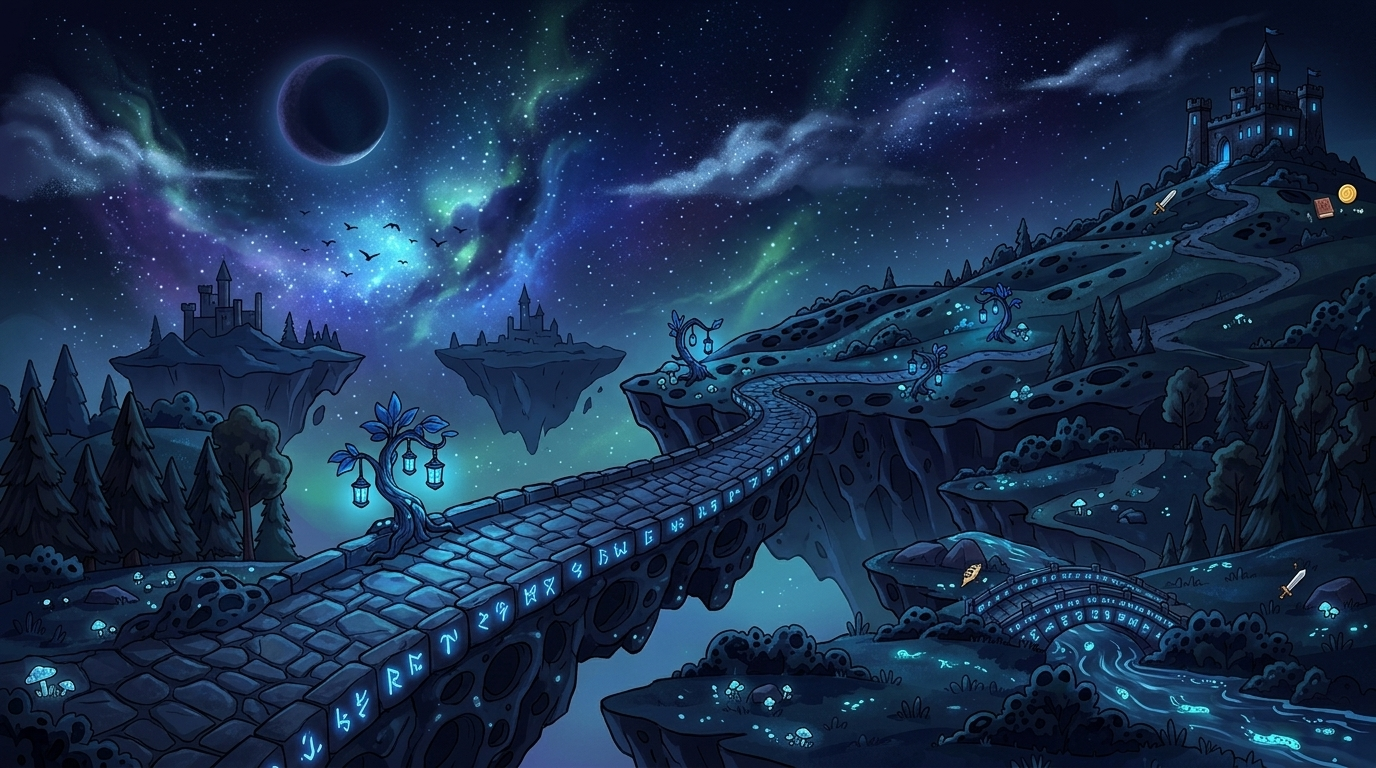
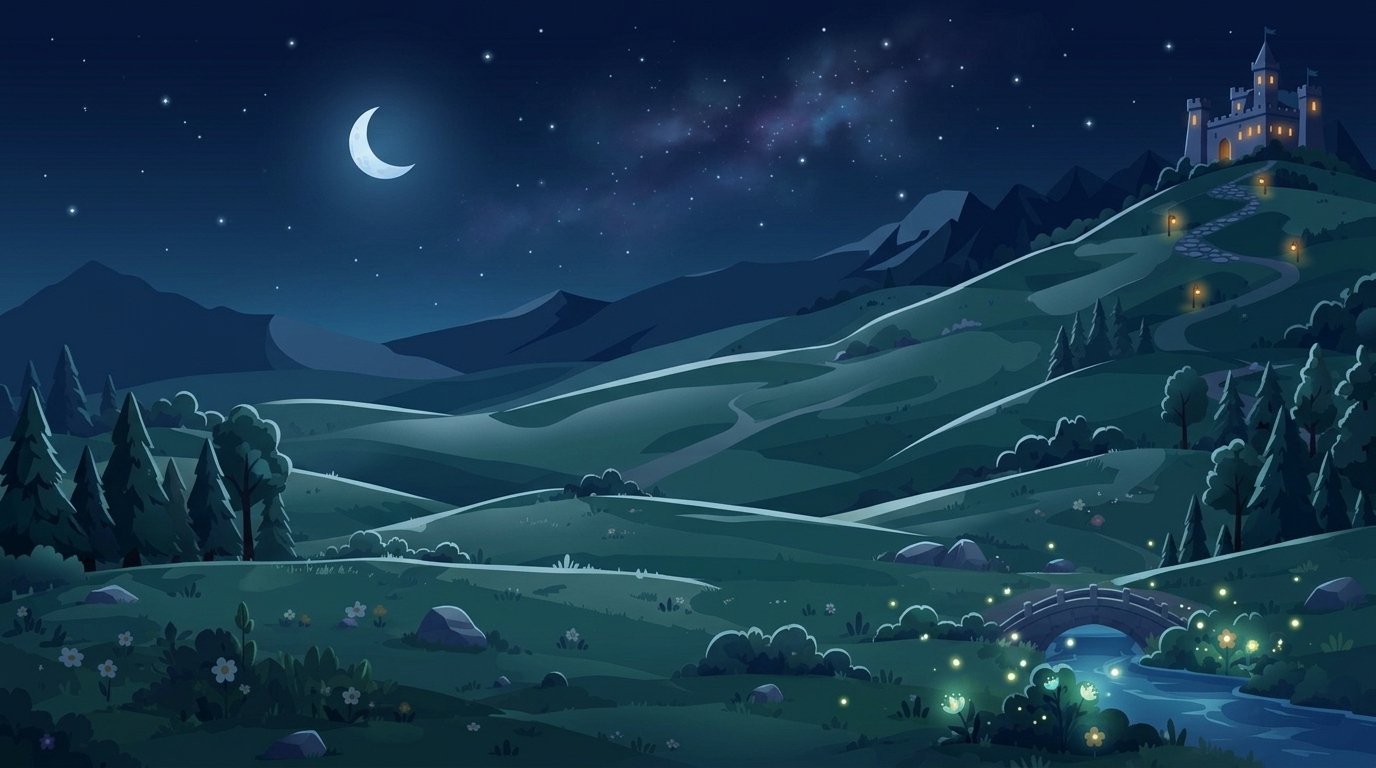
feat(quest): create matching dark theme fantasy background image and fix dark mode display

diff --git a/Kuizu_app/problem/quest/index.html b/Kuizu_app/problem/quest/index.html
@@ -67,12 +67,14 @@
                 document.querySelectorAll('.home-landscape-img').forEach(function(el){ el.src = '/images/home_landscape_dark.png'; });
                 document.querySelectorAll('.settings-mountains-art').forEach(function(el){ el.src = '/images/settings_mountains_dark.png'; });
                 document.querySelectorAll('.quiz-map-base-art').forEach(function(el){ el.src = '/images/quiz_clean_map_bg_dark.png'; });
+                document.querySelectorAll('.quest-landscape-card, #quest-landscape-map').forEach(function(el){ el.style.backgroundImage = "url('/images/quest_clean_bg_dark.png')"; });
               }
             });
           } else if (isDark) {
             document.querySelectorAll('.home-landscape-img').forEach(function(el){ el.src = '/images/home_landscape_dark.png'; });
             document.querySelectorAll('.settings-mountains-art').forEach(function(el){ el.src = '/images/settings_mountains_dark.png'; });
             document.querySelectorAll('.quiz-map-base-art').forEach(function(el){ el.src = '/images/quiz_clean_map_bg_dark.png'; });
+            document.querySelectorAll('.quest-landscape-card, #quest-landscape-map').forEach(function(el){ el.style.backgroundImage = "url('/images/quest_clean_bg_dark.png')"; });
           }
         } catch (_) {}
       })();

diff --git a/Kuizu_app/problems/quest/index.html b/Kuizu_app/problems/quest/index.html
@@ -67,12 +67,14 @@
                 document.querySelectorAll('.home-landscape-img').forEach(function(el){ el.src = '/images/home_landscape_dark.png'; });
                 document.querySelectorAll('.settings-mountains-art').forEach(function(el){ el.src = '/images/settings_mountains_dark.png'; });
                 document.querySelectorAll('.quiz-map-base-art').forEach(function(el){ el.src = '/images/quiz_clean_map_bg_dark.png'; });
+                document.querySelectorAll('.quest-landscape-card, #quest-landscape-map').forEach(function(el){ el.style.backgroundImage = "url('/images/quest_clean_bg_dark.png')"; });
               }
             });
           } else if (isDark) {
             document.querySelectorAll('.home-landscape-img').forEach(function(el){ el.src = '/images/home_landscape_dark.png'; });
             document.querySelectorAll('.settings-mountains-art').forEach(function(el){ el.src = '/images/settings_mountains_dark.png'; });
             document.querySelectorAll('.quiz-map-base-art').forEach(function(el){ el.src = '/images/quiz_clean_map_bg_dark.png'; });
+            document.querySelectorAll('.quest-landscape-card, #quest-landscape-map').forEach(function(el){ el.style.backgroundImage = "url('/images/quest_clean_bg_dark.png')"; });
           }
         } catch (_) {}
       })();

diff --git a/Kuizu_app/src/theme.ts b/Kuizu_app/src/theme.ts
@@ -117,6 +117,13 @@ export function updateBackgroundImages(isDark: boolean): void {
     const target = isDark ? '/images/quiz_clean_map_bg_dark.png' : '/images/quiz_clean_map_bg.jpg';
     if (img.getAttribute('src') !== target) img.src = target;
   });
+
+  const questCards = document.querySelectorAll<HTMLElement>('.quest-landscape-card, #quest-landscape-map');
+  questCards.forEach((card) => {
+    card.style.backgroundImage = isDark
+      ? "url('/images/quest_clean_bg_dark.png')"
+      : "url('/images/quest_clean_bg.jpg')";
+  });
 }
 
 export function setTheme(theme: 'light' | 'dark' | 'system'): void {

diff --git a/Kuizu_app/src/style.css b/Kuizu_app/src/style.css
@@ -19289,9 +19289,16 @@ html.dark-mode .filter-menu-item:hover {
 }
 
 /* Quest Page */
-html.dark-mode .quest-landscape-card,
 html.dark-mode .quest-node-card {
   background: #111827 !important;
+  border-color: #1e293b !important;
+}
+
+html.dark-mode .quest-landscape-card {
+  background-image: url('/images/quest_clean_bg_dark.png') !important;
+  background-size: cover !important;
+  background-position: center bottom !important;
+  background-repeat: repeat-x !important;
   border-color: #1e293b !important;
 }
 
